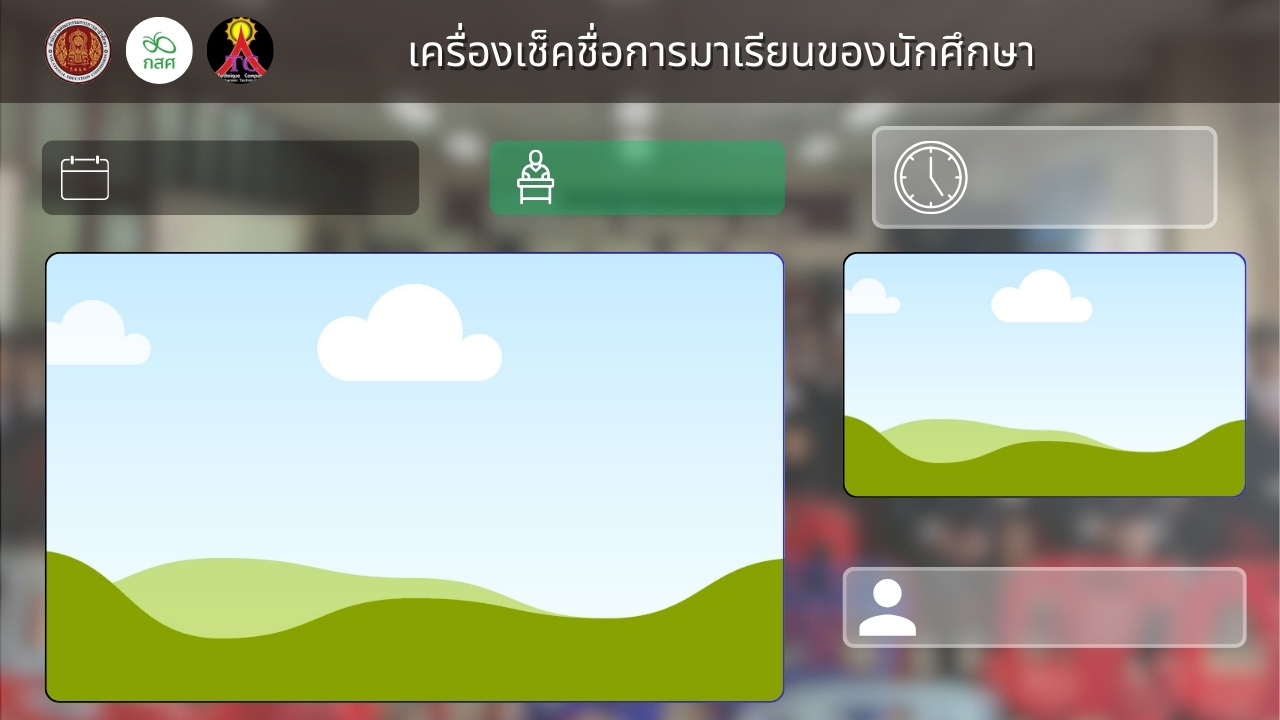
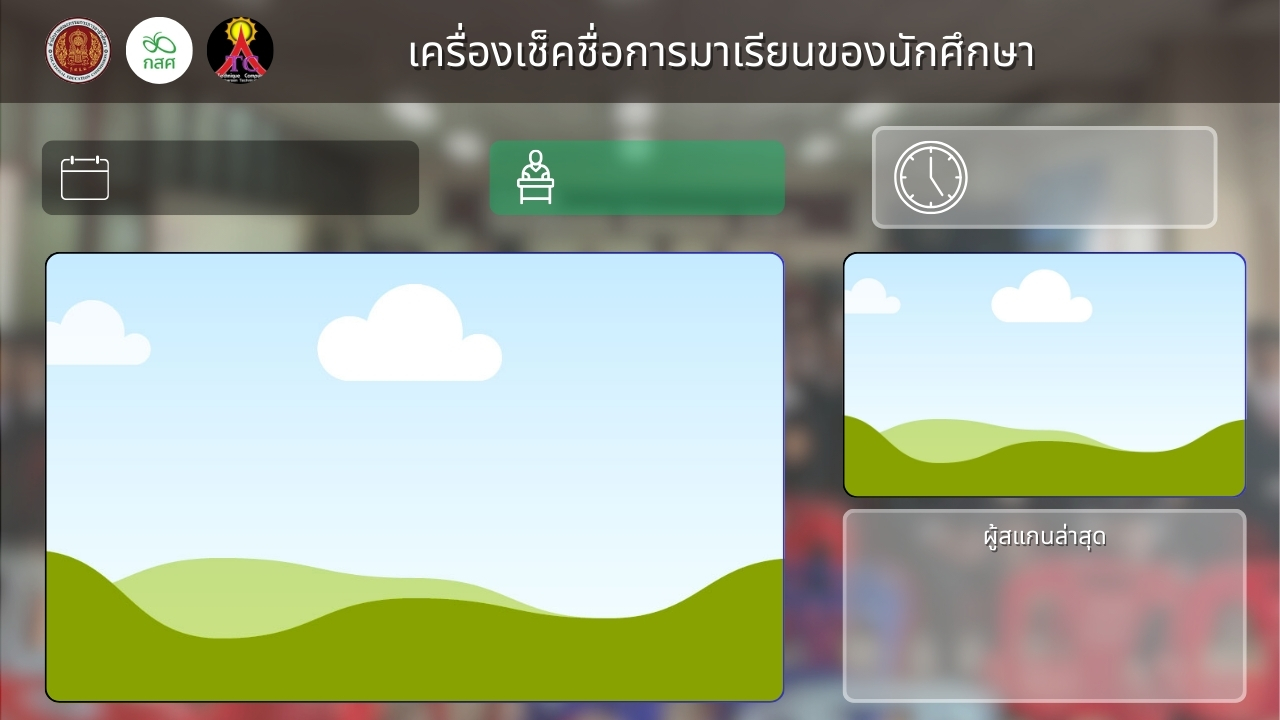
Update

Changed region(s): [[0.6562, 0.7028, 1.0, 0.9778]]

diff --git a/Main.py b/Main.py
@@ -7,48 +7,55 @@ import time
 from insightface.app import FaceAnalysis
 from PIL import ImageFont, ImageDraw, Image
 
+# 🔥 เรียกใช้ข้อมูลจากไฟล์ student_db.py
+from student_db import STUDENT_DB 
+
 # ==========================================
 # ⚙ ส่วนตั้งค่า (CONFIG)
 # ==========================================
-BG_IMAGE_PATH = 'D:\\Work\\FaceScan\\Main\\bg.jpg'
+BG_IMAGE_PATH = 'D:\\Work\\sign-in-facescan\\bg.jpg'
 DATABASE_PATH = 'database/faces_data.pkl'
 FONT_PATH = "c:\\WINDOWS\\Fonts\\UPCJB.TTF" 
 
-# --- ตั้งค่าหน้าจอ ---
-# ขนาดและตำแหน่งกล้องเล็ก (Picture-in-Picture)
+THAI_MONTHS = [
+    "มกราคม", "กุมภาพันธ์", "มีนาคม", "เมษายน", "พฤษภาคม", "มิถุนายน",
+    "กรกฎาคม", "สิงหาคม", "กันยายน", "ตุลาคม", "พฤศจิกายน", "ธันวาคม"
+]
+
+# --- 1. ตั้งค่าหน้าจอ (Camera หลัก) ---
 CAM_W, CAM_H = 760, 450
 CAM_X, CAM_Y = 45, 250
 
-# ปุ่มกดสแกน (อยู่ใต้กล้อง)
+# --- 2. ตั้งค่าปุ่มกด ---
 BTN_X, BTN_Y = 530, 650
 BTN_W, BTN_H = 250, 50
-BTN_COLOR = (0, 200, 0)       # สีปุ่ม (เขียว)
+BTN_COLOR = (0, 200, 0)
 BTN_TEXT_COLOR = (255, 255, 255)
 
+# --- 3. กล่องแสดงผลหน้าล่าสุด ---
+LAST_X, LAST_Y = 840, 250  
+LAST_W, LAST_H = 410, 260  
+TEXT_OFFSET_Y = 40         
+
 SIMILARITY_THRESHOLD = 0.40
-SHOW_RESULT_DURATION = 3 # โชว์ผลค้างไว้กี่วินาที
+SHOW_RESULT_DURATION = 3
 
-# สมุดรายชื่อ
-STUDENT_DB = {
-    "61": "นายพงศธร ชาลีโสม",
-    "66010002": "น.ส.สมศรี เรียนเก่ง",
-    "66010003": "ชิอิเนะ มาฮิรุ",
-    "12345": "แอดมิน ทดสอบระบบ"
-}
+# ตัวแปรสถานะระบบ
+scan_triggered = False      
+result_frame = None         
+result_timer = 0            
 
-# ตัวแปรสถานะ
-scan_triggered = False      # สั่งให้เริ่มสแกน
-result_frame = None         # เก็บภาพผลลัพธ์ที่สแกนเสร็จแล้ว
-result_timer = 0            # จับเวลาการโชว์ผล
+# ตัวแปรเก็บข้อมูลคนล่าสุด
+latest_face_img = None      # เก็บรูปภาพเต็มใบ
+latest_names = []           # เก็บรายชื่อทุกคนที่เจอ (List)
+latest_time = ""            
 
 # ==========================================
 # 🔧 ฟังก์ชันช่วยเหลือ
 # ==========================================
 def on_mouse_click(event, x, y, flags, param):
-    """ฟังก์ชันตรวจจับการคลิกเมาส์ที่ปุ่ม"""
     global scan_triggered
     if event == cv2.EVENT_LBUTTONDOWN:
-        # เช็คว่าคลิกโดนปุ่มหรือไม่
         if BTN_X <= x <= BTN_X + BTN_W and BTN_Y <= y <= BTN_Y + BTN_H:
             scan_triggered = True
             print("🖱 Button Clicked! Scanning...")
@@ -71,7 +78,10 @@ if bg_img is None:
     print(f"❌ ไม่พบไฟล์พื้นหลัง: {BG_IMAGE_PATH}")
     sys.exit()
 
-print("⏳ กำลังโหลด Database และ AI Model...")
+# ปรับขนาดภาพพื้นหลังให้เป็น 1280x720 ตามต้องการ
+bg_img = cv2.resize(bg_img, (1280, 720))
+
+print("⏳ กำลังโหลด AI...")
 try:
     with open(DATABASE_PATH, 'rb') as f:
         data = pickle.load(f)
@@ -83,105 +93,144 @@ except Exception:
 app = FaceAnalysis(name='buffalo_l', providers=['CPUExecutionProvider'])
 app.prepare(ctx_id=0, det_size=(640, 640))
 
-cap = cv2.VideoCapture(1) # หรือ 0
+cap = cv2.VideoCapture(0)
 cap.set(cv2.CAP_PROP_FRAME_WIDTH, 640)
 cap.set(cv2.CAP_PROP_FRAME_HEIGHT, 480)
 
-window_name = 'Smart Sign-In (Button Mode)'
+window_name = 'Smart Sign-In (Full Option)'
 cv2.namedWindow(window_name, cv2.WINDOW_NORMAL)
-cv2.setMouseCallback(window_name, on_mouse_click) # ผูกเมาส์กับหน้าต่าง
+# บังคับขนาดหน้าต่าง
+cv2.resizeWindow(window_name, 1280, 720) 
+cv2.setMouseCallback(window_name, on_mouse_click)
 
-print("✅ ระบบพร้อม! กดปุ่มสีเขียวเพื่อสแกน")
+print("✅ ระบบพร้อม! (Resolution: 1280x720)")
 
 while True:
-    # 1. เตรียมพื้นหลัง (Canvas)
     frame_display = bg_img.copy()
     
-    # 2. อ่านกล้อง (แต่อย่าเพิ่งส่งเข้า AI เพื่อความลื่น)
     ret, frame_full = cap.read()
     if not ret: break
 
-    # 3. ตรวจสอบสถานะการทำงาน
     current_time = time.time()
+
+    # =========================================
+    # ส่วนประมวลผล (Processing Logic)
+    # =========================================
     
-    # --- กรณี A: กำลังแสดงผลลัพธ์ (Freeze Result) ---
+    # 1. กรณีแสดงผลค้าง (Freeze)
     if result_frame is not None and current_time < result_timer:
-        # ใช้ภาพนิ่งที่สแกนเสร็จแล้วมาแสดง
         display_cam = result_frame
-        
-        # วาดแถบเวลานับถอยหลังที่ปุ่ม
         time_left = int(result_timer - current_time)
         btn_text = f"โชว์ผลอีก {time_left} วิ"
-        btn_bg = (100, 100, 100) # สีเทา (Disabled)
+        btn_bg = (100, 100, 100)
 
-    # --- กรณี B: สั่งสแกน (Processing) ---
+    # 2. กรณีสั่งสแกน (Scan Triggered)
     elif scan_triggered:
-        # ส่งเข้า AI (กระตุกนิดนึงแค่วินาทีนี้)
         faces = app.get(frame_full)
         
-        # วาดผลลัพธ์ลงบน frame_full
+        # สร้าง List ชั่วคราวเพื่อเก็บชื่อในรอบนี้
+        current_scan_names = [] 
+        
         for face in faces:
             emb = face.embedding / np.linalg.norm(face.embedding)
             scores = np.dot(known_embeds, emb) if len(known_embeds) > 0 else []
             best_idx = np.argmax(scores) if len(scores) > 0 else -1
             best_score = scores[best_idx] if len(scores) > 0 else 0
             
+            # --- ตรวจสอบชื่อ ---
             if best_score > SIMILARITY_THRESHOLD:
+                # เรียกใช้ STUDENT_DB ที่ import มา
                 name = STUDENT_DB.get(known_names[best_idx], known_names[best_idx])
                 color = (0, 255, 0)
+                current_scan_names.append(name)
             else:
                 name = "ไม่รู้จัก"
                 color = (0, 0, 255)
+                current_scan_names.append(name)
             
+            # วาดกรอบบนภาพหลัก
             box = face.bbox.astype(int)
             cv2.rectangle(frame_full, (box[0], box[1]), (box[2], box[3]), color, 3)
-            # ใส่ชื่อ
             frame_full = put_thai_text(frame_full, name, (box[0], box[1]-40), (color[2], color[1], color[0]), 40)
-        
-        if not faces:
+
+        # อัปเดตข้อมูล Global ถ้าเจอคน
+        if faces:
+            latest_names = current_scan_names 
+            latest_face_img = frame_full.copy() 
+            latest_time = datetime.datetime.now().strftime("%H:%M:%S")
+        elif not faces:
              frame_full = put_thai_text(frame_full, "ไม่พบใบหน้า", (50, 50), (255, 0, 0), 40)
 
-        # บันทึกภาพผลลัพธ์ และตั้งเวลาโชว์
+        # ตั้งค่า Freeze หน้าจอ
         result_frame = cv2.resize(frame_full, (CAM_W, CAM_H))
         display_cam = result_frame
         result_timer = current_time + SHOW_RESULT_DURATION
-        scan_triggered = False # รีเซ็ตปุ่ม
-        
+        scan_triggered = False
         btn_text = "เรียบร้อย!"
         btn_bg = (0, 100, 0)
 
-    # --- กรณี C: โหมดปกติ (Live View) ---
+    # 3. โหมดปกติ (Live View)
     else:
-        # ย่อภาพมาแสดงเฉยๆ ลื่นๆ
         display_cam = cv2.resize(frame_full, (CAM_W, CAM_H))
-        result_frame = None # เคลียร์ภาพค้าง
-        
+        result_frame = None
         btn_text = "คลิกเพื่อสแกนใบหน้า"
         btn_bg = BTN_COLOR
 
-    # 4. ประกอบร่าง (Drawing UI)
-    
-    # 4.1 แปะภาพกล้องลงพื้นหลัง
+    # =========================================
+    # ส่วนวาดหน้าจอ (Drawing Logic)
+    # =========================================
+
+    # --- A. วาดกล้องหลัก ---
     if CAM_Y + CAM_H <= frame_display.shape[0] and CAM_X + CAM_W <= frame_display.shape[1]:
         frame_display[CAM_Y:CAM_Y+CAM_H, CAM_X:CAM_X+CAM_W] = display_cam
-        # วาดกรอบรอบกล้อง
         cv2.rectangle(frame_display, (CAM_X-2, CAM_Y-2), (CAM_X+CAM_W+2, CAM_Y+CAM_H+2), (255, 255, 255), 2)
 
-    # 4.2 วาดปุ่มกด (Button)
+    # --- B. วาดปุ่มกด ---
     cv2.rectangle(frame_display, (BTN_X, BTN_Y), (BTN_X+BTN_W, BTN_Y+BTN_H), btn_bg, -1)
     cv2.rectangle(frame_display, (BTN_X, BTN_Y), (BTN_X+BTN_W, BTN_Y+BTN_H), (255, 255, 255), 2)
-    
-    # คำนวณตำแหน่งข้อความให้อยู่กลางปุ่ม
-    text_size = cv2.getTextSize(btn_text, cv2.FONT_HERSHEY_SIMPLEX, 0.7, 2)[0] # คำนวณคร่าวๆ
-    # แต่เราใช้ฟังก์ชันภาษาไทย ดังนั้นกะระยะเอาหน่อย
     frame_display = put_thai_text(frame_display, btn_text, (BTN_X + 20, BTN_Y + 10), BTN_TEXT_COLOR, 30)
 
-    # 4.3 แสดงนาฬิกา (เดินตลอดเวลา ไม่หยุด)
+    # --- C. วาดกล่องคนล่าสุด (Latest Scan Box) ---
+    # 1. วาดรูปหน้าคน (ภาพเต็มใบ)
+    if latest_face_img is not None:
+        try:
+            face_display = cv2.resize(latest_face_img, (LAST_W, LAST_H))
+            frame_display[LAST_Y:LAST_Y+LAST_H, LAST_X:LAST_X+LAST_W] = face_display
+        except Exception as e:
+            print(f"Error drawing face: {e}")
+    else:
+        cv2.putText(frame_display, "?", (LAST_X + 180, LAST_Y + 180), cv2.FONT_HERSHEY_SIMPLEX, 4, (100, 100, 100), 5)
+
+    # 2. แสดงรายการชื่อหลายคน
+    info_y_start = LAST_Y + LAST_H + 20
+    
+    if len(latest_names) > 0:
+        for i, name in enumerate(latest_names):
+            y_pos = info_y_start + (i * 25) 
+            if y_pos < frame_display.shape[0] - 50: 
+                display_text = f"{i+1}. {name}"
+                frame_display = put_thai_text(frame_display, display_text, (LAST_X + 20, y_pos + 30), (255, 255, 255), 25)
+        
+        # แสดงเวลา
+        time_y_pos = info_y_start + (len(latest_names) * 45) + 10
+        if latest_time:
+            frame_display = put_thai_text(frame_display, f"เวลา: {latest_time}", (LAST_X + 20, time_y_pos), (200, 200, 200), 25)
+    else:
+        frame_display = put_thai_text(frame_display, "รอการสแกน...", (LAST_X + 100, info_y_start + 40), (255, 255, 255), 35)
+
+    # --- D. แสดงวันที่และเวลาปัจจุบัน ---
     now = datetime.datetime.now()
+    
+    # วันที่
+    thai_year = now.year + 543
+    thai_month = THAI_MONTHS[now.month - 1]
+    date_str = f"{now.day} {thai_month} {thai_year}"
+    frame_display = put_thai_text(frame_display, date_str, (140, 170), (255, 255, 255), 40)
+
+    # นาฬิกา
     time_str = now.strftime("%H:%M:%S")
     cv2.putText(frame_display, time_str, (985, 195), cv2.FONT_HERSHEY_SIMPLEX, 1.5, (255, 255, 255), 4, cv2.LINE_AA)
 
-    # แสดงผล
     cv2.imshow(window_name, frame_display)
 
     if cv2.waitKey(1) & 0xFF == ord('q'):

diff --git a/student_db.py b/student_db.py
@@ -1,0 +1,12 @@
+STUDENT_DB = {
+    ## ปวส.2/1
+    "42": "น.ส.กรรณิการ์  ปัญญาวงศ์",
+    "61": "นายพงศธร ชาลีโสม",
+    "66": "น.ส.พิรดา วันชัย",
+    "67": "น.ส.สาลินี พะยะ",
+    "68": "น.ส.วาสนา โพธารินทร์",
+    "70": "น.ส.วราภร จำปาหอม",
+    "71": "นายปุรเชษฐ์ บุดดาวงศ์",
+    "72": "นายยงยุทธ ศรีธัญ",
+    "75": "นายศุภสันต์  ทองดี",
+}
